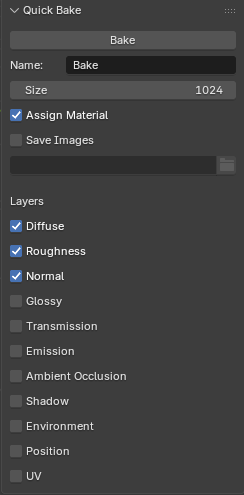
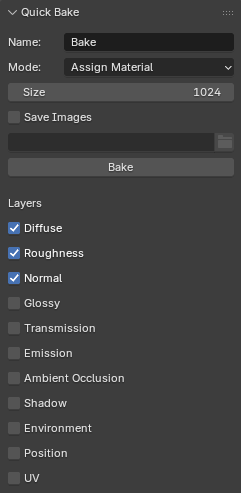
Update panel layout (#11)
* Rename copy to duplicate
* Use enum for default value
* Re-order panel
* Update readme

diff --git a/quickbake/properties.py b/quickbake/properties.py
@@ -8,7 +8,7 @@ class MaterialMode(StrEnum):
     IMAGES = "IMAGES"
     CREATE = "CREATE"
     ASSIGN = "ASSIGN"
-    COPY = "COPY"
+    DUPLICATE = "DUPLICATE"
 
 
 class QuickBakeToolPropertyGroup(bpy.types.PropertyGroup):
@@ -44,16 +44,16 @@ class QuickBakeToolPropertyGroup(bpy.types.PropertyGroup):
             ),
             (
                 MaterialMode.ASSIGN,
-                "Assign material",
+                "Assign Material",
                 "Assign the material to active object",
             ),
             (
-                MaterialMode.COPY,
-                "Copy Object",
-                "Make a copy of the object with baked material assigned",
+                MaterialMode.DUPLICATE,
+                "Duplicate Object",
+                "Duplicate the object before assigning baked material",
             ),
         ],
-        default="ASSIGN",
+        default=MaterialMode.ASSIGN,
     )
 
     save_img: bpy.props.BoolProperty(

diff --git a/quickbake/panel.py b/quickbake/panel.py
@@ -24,17 +24,17 @@ class RENDER_PT_main(bpy.types.Panel):
 
         props = scene.QuickBakeToolPropertyGroup  # type: ignore
 
-        # This is the bake button
-        layout.operator(RENDER_OT_bake.bl_idname)
-
         layout.prop(props, "bake_name")
-        layout.prop(props, "bake_size")
         layout.prop(props, "mat_mode")
+        layout.prop(props, "bake_size")
         layout.prop(props, "save_img")
 
         row = layout.row()
         row.enabled = props.save_img
         row.prop(props, "save_path", text="")
+
+        # This is the bake button
+        layout.operator(RENDER_OT_bake.bl_idname)
 
         layout.separator()
         layout.label(text="Layers")

diff --git a/quickbake/op.py b/quickbake/op.py
@@ -154,7 +154,7 @@ class RENDER_OT_bake(bpy.types.Operator):
         mat = self.create_material(props, uv_layer, passes, images)
 
         # Duplicate object and assign material to new
-        if props.mat_mode == MaterialMode.COPY:
+        if props.mat_mode == MaterialMode.DUPLICATE:
             bpy.ops.object.duplicate()
             obj.hide_set(True)
             # Get new object

diff --git a/README.md b/README.md
@@ -21,10 +21,19 @@ Download this repo as a zip file and install through the Blender addons.
 
 ### Inputs
 
-| Field           | Description                                            |
-| --------------- | ------------------------------------------------------ |
-| Name            | Name used for baked images and material                |
-| Size            | Bake image size in pixels                              |
-| Assign Material | Assign material with baked images to object after bake |
-| Save Images     | Save images to external directory                      |
-| Layers          | Enable baking of different layers, one image per layer |
+| Field       | Description                                            |
+| ----------- | ------------------------------------------------------ |
+| Name        | Name used for baked images and material                |
+| Mode        | What to do with images after bake                      |
+| Size        | Bake image size in pixels                              |
+| Save Images | Save images to external directory                      |
+| Layers      | Enable baking of different layers, one image per layer |
+
+Mode has the following options
+
+| Mode            | Description                                          |
+| --------------- | ---------------------------------------------------- |
+| Image Only      | Only generate images                                 |
+| Create Material | Create a new material with the baked images          |
+| Assign Material | Assign the material to active object                 |
+| Copy Object     | Duplicate the object before assigning baked material |
